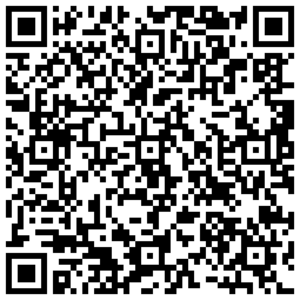
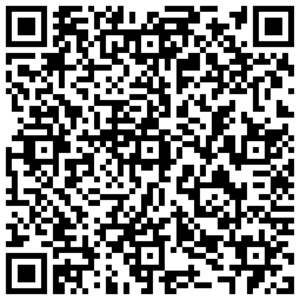
Update free configs - 2025-03-27

diff --git a/README.md b/README.md
@@ -1,6 +1,6 @@
 # 文档下方有很多可直接导入使用的高速节点/二维码订阅
 
-<p align='center'><strong>2025-03-26 12点准时更新每日免费节点，更多机场VPN优惠信息：<a href="https://vpn.tg10000.com">vpn.tg10000.com</a></strong></p>
+<p align='center'><strong>2025-03-27 12点准时更新每日免费节点，更多机场VPN优惠信息：<a href="https://vpn.tg10000.com">vpn.tg10000.com</a></strong></p>
 <p align='center'><strong>Telegram群:<a href="https://t.me/freevpn">@freevpntg</a></strong></p>
 
 
@@ -60,120 +60,120 @@
 
 <p align='center'><img src='img/1.png' alt='QR Code' width='300'></p>
 
-<p align='center'><code>ss://Y2hhY2hhMjAtaWV0Zi1wb2x5MTMwNTo3ZmFjMjE5YS1mZDNiLTRhMDgtYWFlMC04NjFiMDQyOTJhZjM=@free.2apzhfa.xyz:31141#0%7C%F0%9F%87%AD%F0%9F%87%B0%E9%A6%99%E6%B8%AF%2001%20%7C%201x%20HK</code></p>
+<p align='center'><code>ss://Y2hhY2hhMjAtaWV0Zi1wb2x5MTMwNTpiMWFjY2I5My0wZjU4LTRkZjktOWQ2My1lMjYwNzExNDNjMTE=@free.2apzhfa.xyz:31141#0%7C%F0%9F%87%AD%F0%9F%87%B0%E9%A6%99%E6%B8%AF%2001%20%7C%201x%20HK</code></p>
 
 <p align='center'><img src='img/2.png' alt='QR Code' width='300'></p>
 
-<p align='center'><code>ss://Y2hhY2hhMjAtaWV0Zi1wb2x5MTMwNTo3ZmFjMjE5YS1mZDNiLTRhMDgtYWFlMC04NjFiMDQyOTJhZjM=@free.2apzhfa.xyz:31143#0%7C%F0%9F%87%AD%F0%9F%87%B0%E9%A6%99%E6%B8%AF%2002%20%7C%201x%20HK</code></p>
+<p align='center'><code>ss://Y2hhY2hhMjAtaWV0Zi1wb2x5MTMwNTpiMWFjY2I5My0wZjU4LTRkZjktOWQ2My1lMjYwNzExNDNjMTE=@free.2apzhfa.xyz:31143#0%7C%F0%9F%87%AD%F0%9F%87%B0%E9%A6%99%E6%B8%AF%2002%20%7C%201x%20HK</code></p>
 
 <p align='center'><img src='img/3.png' alt='QR Code' width='300'></p>
 
-<p align='center'><code>ss://Y2hhY2hhMjAtaWV0Zi1wb2x5MTMwNTo3ZmFjMjE5YS1mZDNiLTRhMDgtYWFlMC04NjFiMDQyOTJhZjM=@free.2apzhfa.xyz:31145#0%7C%F0%9F%87%AD%F0%9F%87%B0%E9%A6%99%E6%B8%AF%E5%AE%B6%E5%AE%BD%2003%20%7C%201x%20HK</code></p>
+<p align='center'><code>ss://Y2hhY2hhMjAtaWV0Zi1wb2x5MTMwNTpiMWFjY2I5My0wZjU4LTRkZjktOWQ2My1lMjYwNzExNDNjMTE=@free.2apzhfa.xyz:31145#0%7C%F0%9F%87%AD%F0%9F%87%B0%E9%A6%99%E6%B8%AF%E5%AE%B6%E5%AE%BD%2003%20%7C%201x%20HK</code></p>
 
 <p align='center'><img src='img/4.png' alt='QR Code' width='300'></p>
 
-<p align='center'><code>ss://Y2hhY2hhMjAtaWV0Zi1wb2x5MTMwNTo3ZmFjMjE5YS1mZDNiLTRhMDgtYWFlMC04NjFiMDQyOTJhZjM=@free.2apzhfa.xyz:31241#0%7C%F0%9F%87%B9%F0%9F%87%BC%E5%8F%B0%E6%B9%BE%2001%20%7C%201x%20TW</code></p>
+<p align='center'><code>ss://Y2hhY2hhMjAtaWV0Zi1wb2x5MTMwNTpiMWFjY2I5My0wZjU4LTRkZjktOWQ2My1lMjYwNzExNDNjMTE=@free.2apzhfa.xyz:31241#0%7C%F0%9F%87%B9%F0%9F%87%BC%E5%8F%B0%E6%B9%BE%2001%20%7C%201x%20TW</code></p>
 
 <p align='center'><img src='img/5.png' alt='QR Code' width='300'></p>
 
-<p align='center'><code>ss://Y2hhY2hhMjAtaWV0Zi1wb2x5MTMwNTo3ZmFjMjE5YS1mZDNiLTRhMDgtYWFlMC04NjFiMDQyOTJhZjM=@free.2apzhfa.xyz:31243#0%7C%F0%9F%87%B9%F0%9F%87%BC%E5%8F%B0%E6%B9%BE%2002%20%7C%201x%20TW</code></p>
+<p align='center'><code>ss://Y2hhY2hhMjAtaWV0Zi1wb2x5MTMwNTpiMWFjY2I5My0wZjU4LTRkZjktOWQ2My1lMjYwNzExNDNjMTE=@free.2apzhfa.xyz:31243#0%7C%F0%9F%87%B9%F0%9F%87%BC%E5%8F%B0%E6%B9%BE%2002%20%7C%201x%20TW</code></p>
 
 <p align='center'><img src='img/6.png' alt='QR Code' width='300'></p>
 
-<p align='center'><code>ss://Y2hhY2hhMjAtaWV0Zi1wb2x5MTMwNTo3ZmFjMjE5YS1mZDNiLTRhMDgtYWFlMC04NjFiMDQyOTJhZjM=@free.2apzhfa.xyz:31245#0%7C%F0%9F%87%B9%F0%9F%87%BC%E5%8F%B0%E6%B9%BE%2003%20%7C%201x%20TW</code></p>
+<p align='center'><code>ss://Y2hhY2hhMjAtaWV0Zi1wb2x5MTMwNTpiMWFjY2I5My0wZjU4LTRkZjktOWQ2My1lMjYwNzExNDNjMTE=@free.2apzhfa.xyz:31245#0%7C%F0%9F%87%B9%F0%9F%87%BC%E5%8F%B0%E6%B9%BE%2003%20%7C%201x%20TW</code></p>
 
 <p align='center'><img src='img/7.png' alt='QR Code' width='300'></p>
 
-<p align='center'><code>ss://Y2hhY2hhMjAtaWV0Zi1wb2x5MTMwNTo3ZmFjMjE5YS1mZDNiLTRhMDgtYWFlMC04NjFiMDQyOTJhZjM=@free.2apzhfa.xyz:31111#0%7C%F0%9F%87%AF%F0%9F%87%B5%E6%97%A5%E6%9C%AC%2001%20%7C%201x%20JP</code></p>
+<p align='center'><code>ss://Y2hhY2hhMjAtaWV0Zi1wb2x5MTMwNTpiMWFjY2I5My0wZjU4LTRkZjktOWQ2My1lMjYwNzExNDNjMTE=@free.2apzhfa.xyz:31111#0%7C%F0%9F%87%AF%F0%9F%87%B5%E6%97%A5%E6%9C%AC%2001%20%7C%201x%20JP</code></p>
 
 <p align='center'><img src='img/8.png' alt='QR Code' width='300'></p>
 
-<p align='center'><code>ss://Y2hhY2hhMjAtaWV0Zi1wb2x5MTMwNTo3ZmFjMjE5YS1mZDNiLTRhMDgtYWFlMC04NjFiMDQyOTJhZjM=@free.2apzhfa.xyz:31113#0%7C%F0%9F%87%AF%F0%9F%87%B5%E6%97%A5%E6%9C%AC%2002%20%7C%201x%20JP</code></p>
+<p align='center'><code>ss://Y2hhY2hhMjAtaWV0Zi1wb2x5MTMwNTpiMWFjY2I5My0wZjU4LTRkZjktOWQ2My1lMjYwNzExNDNjMTE=@free.2apzhfa.xyz:31113#0%7C%F0%9F%87%AF%F0%9F%87%B5%E6%97%A5%E6%9C%AC%2002%20%7C%201x%20JP</code></p>
 
 <p align='center'><img src='img/9.png' alt='QR Code' width='300'></p>
 
-<p align='center'><code>ss://Y2hhY2hhMjAtaWV0Zi1wb2x5MTMwNTo3ZmFjMjE5YS1mZDNiLTRhMDgtYWFlMC04NjFiMDQyOTJhZjM=@free.2apzhfa.xyz:31115#0%7C%F0%9F%87%AF%F0%9F%87%B5%E6%97%A5%E6%9C%AC%2003%20%7C%201x%20JP</code></p>
+<p align='center'><code>ss://Y2hhY2hhMjAtaWV0Zi1wb2x5MTMwNTpiMWFjY2I5My0wZjU4LTRkZjktOWQ2My1lMjYwNzExNDNjMTE=@free.2apzhfa.xyz:31115#0%7C%F0%9F%87%AF%F0%9F%87%B5%E6%97%A5%E6%9C%AC%2003%20%7C%201x%20JP</code></p>
 
 <p align='center'><img src='img/10.png' alt='QR Code' width='300'></p>
 
-<p align='center'><code>ss://Y2hhY2hhMjAtaWV0Zi1wb2x5MTMwNTo3ZmFjMjE5YS1mZDNiLTRhMDgtYWFlMC04NjFiMDQyOTJhZjM=@free.2apzhfa.xyz:31171#0%7C%F0%9F%87%B8%F0%9F%87%AC%E6%96%B0%E5%8A%A0%E5%9D%A1%2001%20%7C%201x%20SG</code></p>
+<p align='center'><code>ss://Y2hhY2hhMjAtaWV0Zi1wb2x5MTMwNTpiMWFjY2I5My0wZjU4LTRkZjktOWQ2My1lMjYwNzExNDNjMTE=@free.2apzhfa.xyz:31171#0%7C%F0%9F%87%B8%F0%9F%87%AC%E6%96%B0%E5%8A%A0%E5%9D%A1%2001%20%7C%201x%20SG</code></p>
 
 <p align='center'><img src='img/11.png' alt='QR Code' width='300'></p>
 
-<p align='center'><code>ss://Y2hhY2hhMjAtaWV0Zi1wb2x5MTMwNTo3ZmFjMjE5YS1mZDNiLTRhMDgtYWFlMC04NjFiMDQyOTJhZjM=@free.2apzhfa.xyz:31173#0%7C%F0%9F%87%B8%F0%9F%87%AC%E6%96%B0%E5%8A%A0%E5%9D%A1%2002%20%7C%201x%20SG</code></p>
+<p align='center'><code>ss://Y2hhY2hhMjAtaWV0Zi1wb2x5MTMwNTpiMWFjY2I5My0wZjU4LTRkZjktOWQ2My1lMjYwNzExNDNjMTE=@free.2apzhfa.xyz:31173#0%7C%F0%9F%87%B8%F0%9F%87%AC%E6%96%B0%E5%8A%A0%E5%9D%A1%2002%20%7C%201x%20SG</code></p>
 
 <p align='center'><img src='img/12.png' alt='QR Code' width='300'></p>
 
-<p align='center'><code>ss://Y2hhY2hhMjAtaWV0Zi1wb2x5MTMwNTo3ZmFjMjE5YS1mZDNiLTRhMDgtYWFlMC04NjFiMDQyOTJhZjM=@free.2apzhfa.xyz:31175#0%7C%F0%9F%87%B8%F0%9F%87%AC%E6%96%B0%E5%8A%A0%E5%9D%A1%2003%20%7C%201x%20SG</code></p>
+<p align='center'><code>ss://Y2hhY2hhMjAtaWV0Zi1wb2x5MTMwNTpiMWFjY2I5My0wZjU4LTRkZjktOWQ2My1lMjYwNzExNDNjMTE=@free.2apzhfa.xyz:31175#0%7C%F0%9F%87%B8%F0%9F%87%AC%E6%96%B0%E5%8A%A0%E5%9D%A1%2003%20%7C%201x%20SG</code></p>
 
 <p align='center'><img src='img/13.png' alt='QR Code' width='300'></p>
 
-<p align='center'><code>ss://Y2hhY2hhMjAtaWV0Zi1wb2x5MTMwNTo3ZmFjMjE5YS1mZDNiLTRhMDgtYWFlMC04NjFiMDQyOTJhZjM=@free.2apzhfa.xyz:31311#0%7C%F0%9F%87%B0%F0%9F%87%B7%E9%9F%A9%E5%9B%BD%2001%20%7C%201x%20KR</code></p>
+<p align='center'><code>ss://Y2hhY2hhMjAtaWV0Zi1wb2x5MTMwNTpiMWFjY2I5My0wZjU4LTRkZjktOWQ2My1lMjYwNzExNDNjMTE=@free.2apzhfa.xyz:31311#0%7C%F0%9F%87%B0%F0%9F%87%B7%E9%9F%A9%E5%9B%BD%2001%20%7C%201x%20KR</code></p>
 
 <p align='center'><img src='img/14.png' alt='QR Code' width='300'></p>
 
-<p align='center'><code>ss://Y2hhY2hhMjAtaWV0Zi1wb2x5MTMwNTo3ZmFjMjE5YS1mZDNiLTRhMDgtYWFlMC04NjFiMDQyOTJhZjM=@free.2apzhfa.xyz:31313#0%7C%F0%9F%87%B0%F0%9F%87%B7%E9%9F%A9%E5%9B%BD%2002%20%7C%201x%20KR</code></p>
+<p align='center'><code>ss://Y2hhY2hhMjAtaWV0Zi1wb2x5MTMwNTpiMWFjY2I5My0wZjU4LTRkZjktOWQ2My1lMjYwNzExNDNjMTE=@free.2apzhfa.xyz:31313#0%7C%F0%9F%87%B0%F0%9F%87%B7%E9%9F%A9%E5%9B%BD%2002%20%7C%201x%20KR</code></p>
 
 <p align='center'><img src='img/15.png' alt='QR Code' width='300'></p>
 
-<p align='center'><code>ss://Y2hhY2hhMjAtaWV0Zi1wb2x5MTMwNTo3ZmFjMjE5YS1mZDNiLTRhMDgtYWFlMC04NjFiMDQyOTJhZjM=@free.2apzhfa.xyz:31341#0%7C%F0%9F%87%B5%F0%9F%87%AD%E8%8F%B2%E5%BE%8B%E5%AE%BE%2001%20%7C%201x%20PH</code></p>
+<p align='center'><code>ss://Y2hhY2hhMjAtaWV0Zi1wb2x5MTMwNTpiMWFjY2I5My0wZjU4LTRkZjktOWQ2My1lMjYwNzExNDNjMTE=@free.2apzhfa.xyz:31341#0%7C%F0%9F%87%B5%F0%9F%87%AD%E8%8F%B2%E5%BE%8B%E5%AE%BE%2001%20%7C%201x%20PH</code></p>
 
 <p align='center'><img src='img/16.png' alt='QR Code' width='300'></p>
 
-<p align='center'><code>ss://Y2hhY2hhMjAtaWV0Zi1wb2x5MTMwNTo3ZmFjMjE5YS1mZDNiLTRhMDgtYWFlMC04NjFiMDQyOTJhZjM=@free.2apzhfa.xyz:31211#0%7C%F0%9F%87%BA%F0%9F%87%B8%E7%BE%8E%E5%9B%BD%2001%20%7C%201x%20US%20Los%20Angeles</code></p>
+<p align='center'><code>ss://Y2hhY2hhMjAtaWV0Zi1wb2x5MTMwNTpiMWFjY2I5My0wZjU4LTRkZjktOWQ2My1lMjYwNzExNDNjMTE=@free.2apzhfa.xyz:31211#0%7C%F0%9F%87%BA%F0%9F%87%B8%E7%BE%8E%E5%9B%BD%2001%20%7C%201x%20US%20Los%20Angeles</code></p>
 
 <p align='center'><img src='img/17.png' alt='QR Code' width='300'></p>
 
-<p align='center'><code>ss://Y2hhY2hhMjAtaWV0Zi1wb2x5MTMwNTo3ZmFjMjE5YS1mZDNiLTRhMDgtYWFlMC04NjFiMDQyOTJhZjM=@free.2apzhfa.xyz:31213#0%7C%F0%9F%87%BA%F0%9F%87%B8%E7%BE%8E%E5%9B%BD%E5%AE%B6%E5%AE%BD%2002%20%7C%201x%20US%20Los%20Angeles</code></p>
+<p align='center'><code>ss://Y2hhY2hhMjAtaWV0Zi1wb2x5MTMwNTpiMWFjY2I5My0wZjU4LTRkZjktOWQ2My1lMjYwNzExNDNjMTE=@free.2apzhfa.xyz:31213#0%7C%F0%9F%87%BA%F0%9F%87%B8%E7%BE%8E%E5%9B%BD%E5%AE%B6%E5%AE%BD%2002%20%7C%201x%20US%20Los%20Angeles</code></p>
 
 <p align='center'><img src='img/18.png' alt='QR Code' width='300'></p>
 
-<p align='center'><code>ss://Y2hhY2hhMjAtaWV0Zi1wb2x5MTMwNTo3ZmFjMjE5YS1mZDNiLTRhMDgtYWFlMC04NjFiMDQyOTJhZjM=@free.2apzhfa.xyz:31215#0%7C%F0%9F%87%BA%F0%9F%87%B8%E7%BE%8E%E5%9B%BD%2003%20%7C%201x%20US%20Washington</code></p>
+<p align='center'><code>ss://Y2hhY2hhMjAtaWV0Zi1wb2x5MTMwNTpiMWFjY2I5My0wZjU4LTRkZjktOWQ2My1lMjYwNzExNDNjMTE=@free.2apzhfa.xyz:31215#0%7C%F0%9F%87%BA%F0%9F%87%B8%E7%BE%8E%E5%9B%BD%2003%20%7C%201x%20US%20Washington</code></p>
 
 <p align='center'><img src='img/19.png' alt='QR Code' width='300'></p>
 
-<p align='center'><code>ss://Y2hhY2hhMjAtaWV0Zi1wb2x5MTMwNTo3ZmFjMjE5YS1mZDNiLTRhMDgtYWFlMC04NjFiMDQyOTJhZjM=@free.2apzhfa.xyz:31271#0%7C%F0%9F%87%AC%F0%9F%87%A7%E8%8B%B1%E5%9B%BD%E5%AE%B6%E5%AE%BD%2001%20%7C%201x%20UK</code></p>
+<p align='center'><code>ss://Y2hhY2hhMjAtaWV0Zi1wb2x5MTMwNTpiMWFjY2I5My0wZjU4LTRkZjktOWQ2My1lMjYwNzExNDNjMTE=@free.2apzhfa.xyz:31271#0%7C%F0%9F%87%AC%F0%9F%87%A7%E8%8B%B1%E5%9B%BD%E5%AE%B6%E5%AE%BD%2001%20%7C%201x%20UK</code></p>
 
 <p align='center'><img src='img/20.png' alt='QR Code' width='300'></p>
 
-<p align='center'><code>ss://Y2hhY2hhMjAtaWV0Zi1wb2x5MTMwNTo3ZmFjMjE5YS1mZDNiLTRhMDgtYWFlMC04NjFiMDQyOTJhZjM=@free.2apzhfa.xyz:31741#0%7C%F0%9F%87%B9%F0%9F%87%AD%E6%B3%B0%E5%9B%BD01%20%20%7C%201x%20TH</code></p>
+<p align='center'><code>ss://Y2hhY2hhMjAtaWV0Zi1wb2x5MTMwNTpiMWFjY2I5My0wZjU4LTRkZjktOWQ2My1lMjYwNzExNDNjMTE=@free.2apzhfa.xyz:31741#0%7C%F0%9F%87%B9%F0%9F%87%AD%E6%B3%B0%E5%9B%BD01%20%20%7C%201x%20TH</code></p>
 
 <p align='center'><img src='img/21.png' alt='QR Code' width='300'></p>
 
-<p align='center'><code>ss://Y2hhY2hhMjAtaWV0Zi1wb2x5MTMwNTo3ZmFjMjE5YS1mZDNiLTRhMDgtYWFlMC04NjFiMDQyOTJhZjM=@free.2apzhfa.xyz:31721#0%7C%F0%9F%87%B2%F0%9F%87%BE%E9%A9%AC%E6%9D%A5%E8%A5%BF%E4%BA%9A01%20%7C%201x%20MY</code></p>
+<p align='center'><code>ss://Y2hhY2hhMjAtaWV0Zi1wb2x5MTMwNTpiMWFjY2I5My0wZjU4LTRkZjktOWQ2My1lMjYwNzExNDNjMTE=@free.2apzhfa.xyz:31721#0%7C%F0%9F%87%B2%F0%9F%87%BE%E9%A9%AC%E6%9D%A5%E8%A5%BF%E4%BA%9A01%20%7C%201x%20MY</code></p>
 
 <p align='center'><img src='img/22.png' alt='QR Code' width='300'></p>
 
-<p align='center'><code>ss://Y2hhY2hhMjAtaWV0Zi1wb2x5MTMwNTo3ZmFjMjE5YS1mZDNiLTRhMDgtYWFlMC04NjFiMDQyOTJhZjM=@free.2apzhfa.xyz:31371#0%7C%F0%9F%87%AE%F0%9F%87%B3%E5%8D%B0%E5%BA%A6%2001%20%7C%201x%20IN</code></p>
+<p align='center'><code>ss://Y2hhY2hhMjAtaWV0Zi1wb2x5MTMwNTpiMWFjY2I5My0wZjU4LTRkZjktOWQ2My1lMjYwNzExNDNjMTE=@free.2apzhfa.xyz:31371#0%7C%F0%9F%87%AE%F0%9F%87%B3%E5%8D%B0%E5%BA%A6%2001%20%7C%201x%20IN</code></p>
 
 <p align='center'><img src='img/23.png' alt='QR Code' width='300'></p>
 
-<p align='center'><code>ss://Y2hhY2hhMjAtaWV0Zi1wb2x5MTMwNTo3ZmFjMjE5YS1mZDNiLTRhMDgtYWFlMC04NjFiMDQyOTJhZjM=@free.2apzhfa.xyz:31411#0%7C%F0%9F%87%A6%F0%9F%87%BA%E6%BE%B3%E5%A4%A7%E5%88%A9%E4%BA%9A%2001%20%7C%201x%20AU</code></p>
+<p align='center'><code>ss://Y2hhY2hhMjAtaWV0Zi1wb2x5MTMwNTpiMWFjY2I5My0wZjU4LTRkZjktOWQ2My1lMjYwNzExNDNjMTE=@free.2apzhfa.xyz:31411#0%7C%F0%9F%87%A6%F0%9F%87%BA%E6%BE%B3%E5%A4%A7%E5%88%A9%E4%BA%9A%2001%20%7C%201x%20AU</code></p>
 
 <p align='center'><img src='img/24.png' alt='QR Code' width='300'></p>
 
-<p align='center'><code>ss://Y2hhY2hhMjAtaWV0Zi1wb2x5MTMwNTo3ZmFjMjE5YS1mZDNiLTRhMDgtYWFlMC04NjFiMDQyOTJhZjM=@free.2apzhfa.xyz:31441#0%7C%F0%9F%87%A8%F0%9F%87%A6%E5%8A%A0%E6%8B%BF%E5%A4%A7%2001%20%7C%201x%20CA</code></p>
+<p align='center'><code>ss://Y2hhY2hhMjAtaWV0Zi1wb2x5MTMwNTpiMWFjY2I5My0wZjU4LTRkZjktOWQ2My1lMjYwNzExNDNjMTE=@free.2apzhfa.xyz:31441#0%7C%F0%9F%87%A8%F0%9F%87%A6%E5%8A%A0%E6%8B%BF%E5%A4%A7%2001%20%7C%201x%20CA</code></p>
 
 <p align='center'><img src='img/25.png' alt='QR Code' width='300'></p>
 
-<p align='center'><code>ss://Y2hhY2hhMjAtaWV0Zi1wb2x5MTMwNTo3ZmFjMjE5YS1mZDNiLTRhMDgtYWFlMC04NjFiMDQyOTJhZjM=@free.2apzhfa.xyz:31471#0%7C%F0%9F%87%A9%F0%9F%87%AA%E5%BE%B7%E5%9B%BD%2001%20%7C%201x%20DE</code></p>
+<p align='center'><code>ss://Y2hhY2hhMjAtaWV0Zi1wb2x5MTMwNTpiMWFjY2I5My0wZjU4LTRkZjktOWQ2My1lMjYwNzExNDNjMTE=@free.2apzhfa.xyz:31471#0%7C%F0%9F%87%A9%F0%9F%87%AA%E5%BE%B7%E5%9B%BD%2001%20%7C%201x%20DE</code></p>
 
 <p align='center'><img src='img/26.png' alt='QR Code' width='300'></p>
 
-<p align='center'><code>ss://Y2hhY2hhMjAtaWV0Zi1wb2x5MTMwNTo3ZmFjMjE5YS1mZDNiLTRhMDgtYWFlMC04NjFiMDQyOTJhZjM=@free.2apzhfa.xyz:31511#0%7C%F0%9F%87%B7%F0%9F%87%BA%E4%BF%84%E7%BD%97%E6%96%AF%2001%20%7C%201x%20RU</code></p>
+<p align='center'><code>ss://Y2hhY2hhMjAtaWV0Zi1wb2x5MTMwNTpiMWFjY2I5My0wZjU4LTRkZjktOWQ2My1lMjYwNzExNDNjMTE=@free.2apzhfa.xyz:31511#0%7C%F0%9F%87%B7%F0%9F%87%BA%E4%BF%84%E7%BD%97%E6%96%AF%2001%20%7C%201x%20RU</code></p>
 
 <p align='center'><img src='img/27.png' alt='QR Code' width='300'></p>
 
-<p align='center'><code>ss://Y2hhY2hhMjAtaWV0Zi1wb2x5MTMwNTo3ZmFjMjE5YS1mZDNiLTRhMDgtYWFlMC04NjFiMDQyOTJhZjM=@free.2apzhfa.xyz:31571#0%7C%F0%9F%87%B9%F0%9F%87%B7%E5%9C%9F%E8%80%B3%E5%85%B6%2001%20%7C%201x%20TR</code></p>
+<p align='center'><code>ss://Y2hhY2hhMjAtaWV0Zi1wb2x5MTMwNTpiMWFjY2I5My0wZjU4LTRkZjktOWQ2My1lMjYwNzExNDNjMTE=@free.2apzhfa.xyz:31571#0%7C%F0%9F%87%B9%F0%9F%87%B7%E5%9C%9F%E8%80%B3%E5%85%B6%2001%20%7C%201x%20TR</code></p>
 
 <p align='center'><img src='img/28.png' alt='QR Code' width='300'></p>
 
-<p align='center'><code>ss://Y2hhY2hhMjAtaWV0Zi1wb2x5MTMwNTo3ZmFjMjE5YS1mZDNiLTRhMDgtYWFlMC04NjFiMDQyOTJhZjM=@free.2apzhfa.xyz:31611#0%7C%F0%9F%87%BA%F0%9F%87%A6%E4%B9%8C%E5%85%8B%E5%85%B0%2001%20%7C%201x%20UA</code></p>
+<p align='center'><code>ss://Y2hhY2hhMjAtaWV0Zi1wb2x5MTMwNTpiMWFjY2I5My0wZjU4LTRkZjktOWQ2My1lMjYwNzExNDNjMTE=@free.2apzhfa.xyz:31611#0%7C%F0%9F%87%BA%F0%9F%87%A6%E4%B9%8C%E5%85%8B%E5%85%B0%2001%20%7C%201x%20UA</code></p>
 
 <p align='center'><img src='img/29.png' alt='QR Code' width='300'></p>
 
-<p align='center'><code>ss://Y2hhY2hhMjAtaWV0Zi1wb2x5MTMwNTo3ZmFjMjE5YS1mZDNiLTRhMDgtYWFlMC04NjFiMDQyOTJhZjM=@free.2apzhfa.xyz:31641#0%7C%F0%9F%87%BB%F0%9F%87%B3%E8%B6%8A%E5%8D%97%2001%20%7C%201x%20VN</code></p>
+<p align='center'><code>ss://Y2hhY2hhMjAtaWV0Zi1wb2x5MTMwNTpiMWFjY2I5My0wZjU4LTRkZjktOWQ2My1lMjYwNzExNDNjMTE=@free.2apzhfa.xyz:31641#0%7C%F0%9F%87%BB%F0%9F%87%B3%E8%B6%8A%E5%8D%97%2001%20%7C%201x%20VN</code></p>
 
 <p align='center'><img src='img/30.png' alt='QR Code' width='300'></p>
 
-<p align='center'><code>ss://Y2hhY2hhMjAtaWV0Zi1wb2x5MTMwNTo3ZmFjMjE5YS1mZDNiLTRhMDgtYWFlMC04NjFiMDQyOTJhZjM=@free.2apzhfa.xyz:31671#0%7C%F0%9F%87%A7%F0%9F%87%B7%E5%B7%B4%E8%A5%BF%2001%20%7C%201x%20BR</code></p>
+<p align='center'><code>ss://Y2hhY2hhMjAtaWV0Zi1wb2x5MTMwNTpiMWFjY2I5My0wZjU4LTRkZjktOWQ2My1lMjYwNzExNDNjMTE=@free.2apzhfa.xyz:31671#0%7C%F0%9F%87%A7%F0%9F%87%B7%E5%B7%B4%E8%A5%BF%2001%20%7C%201x%20BR</code></p>
